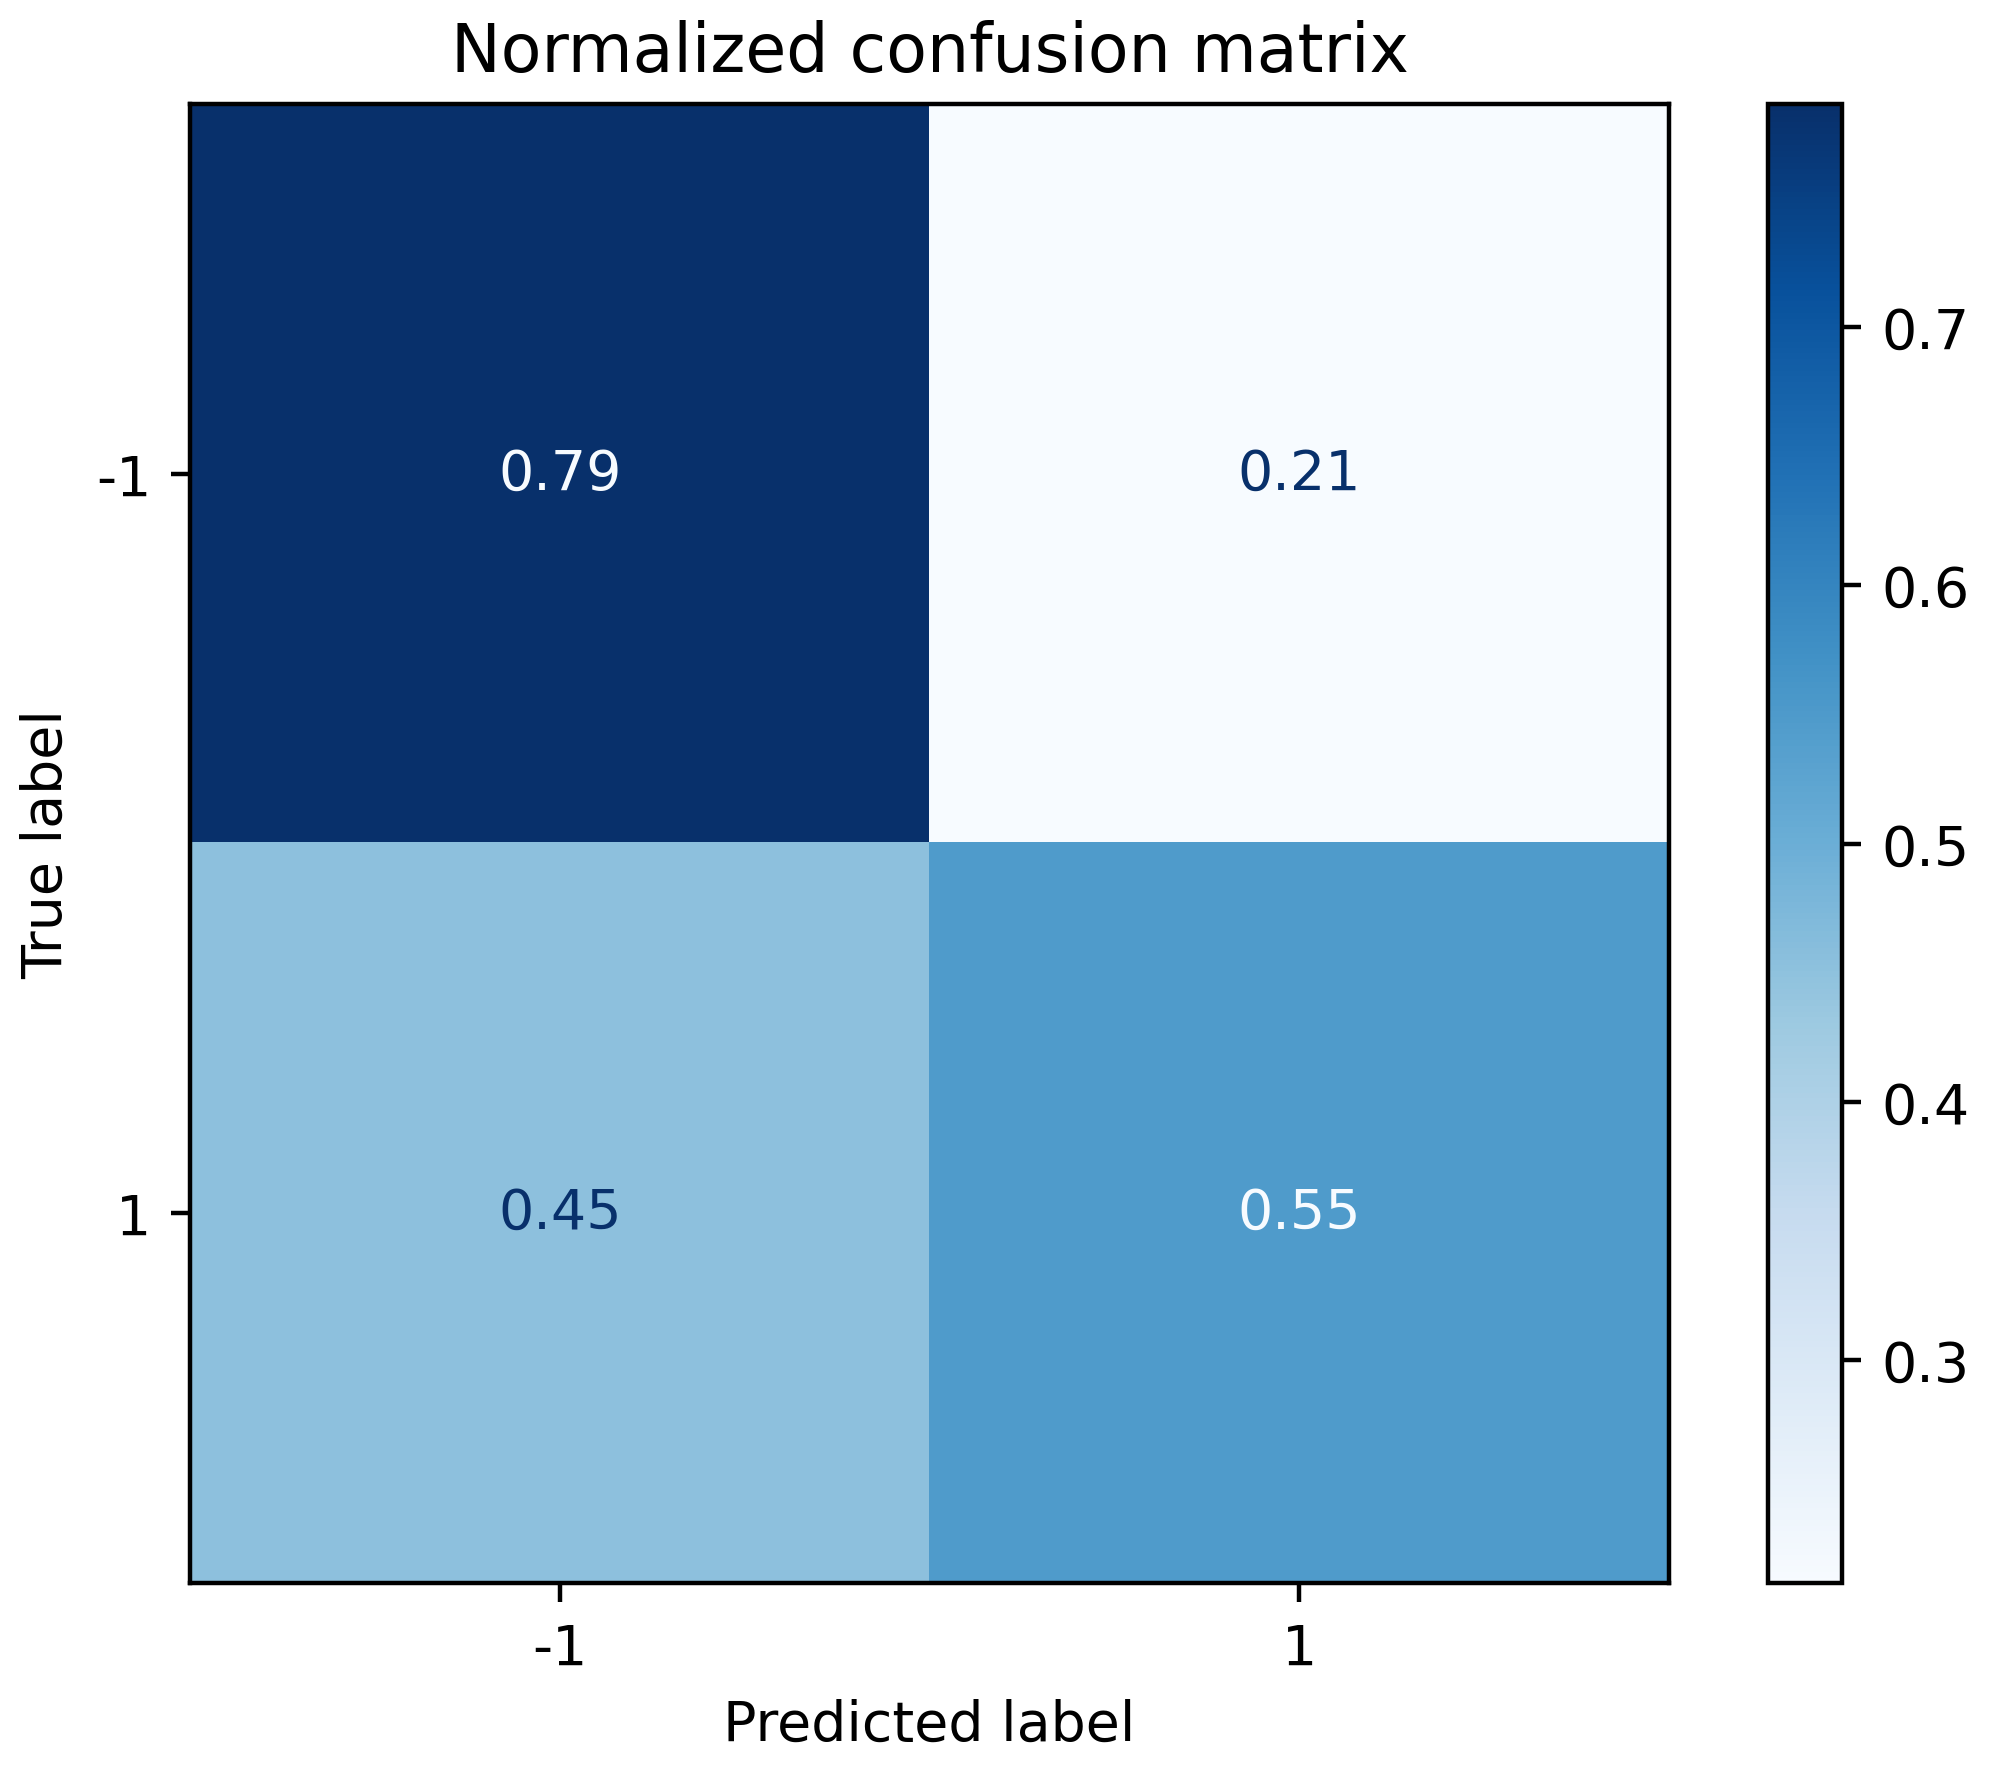
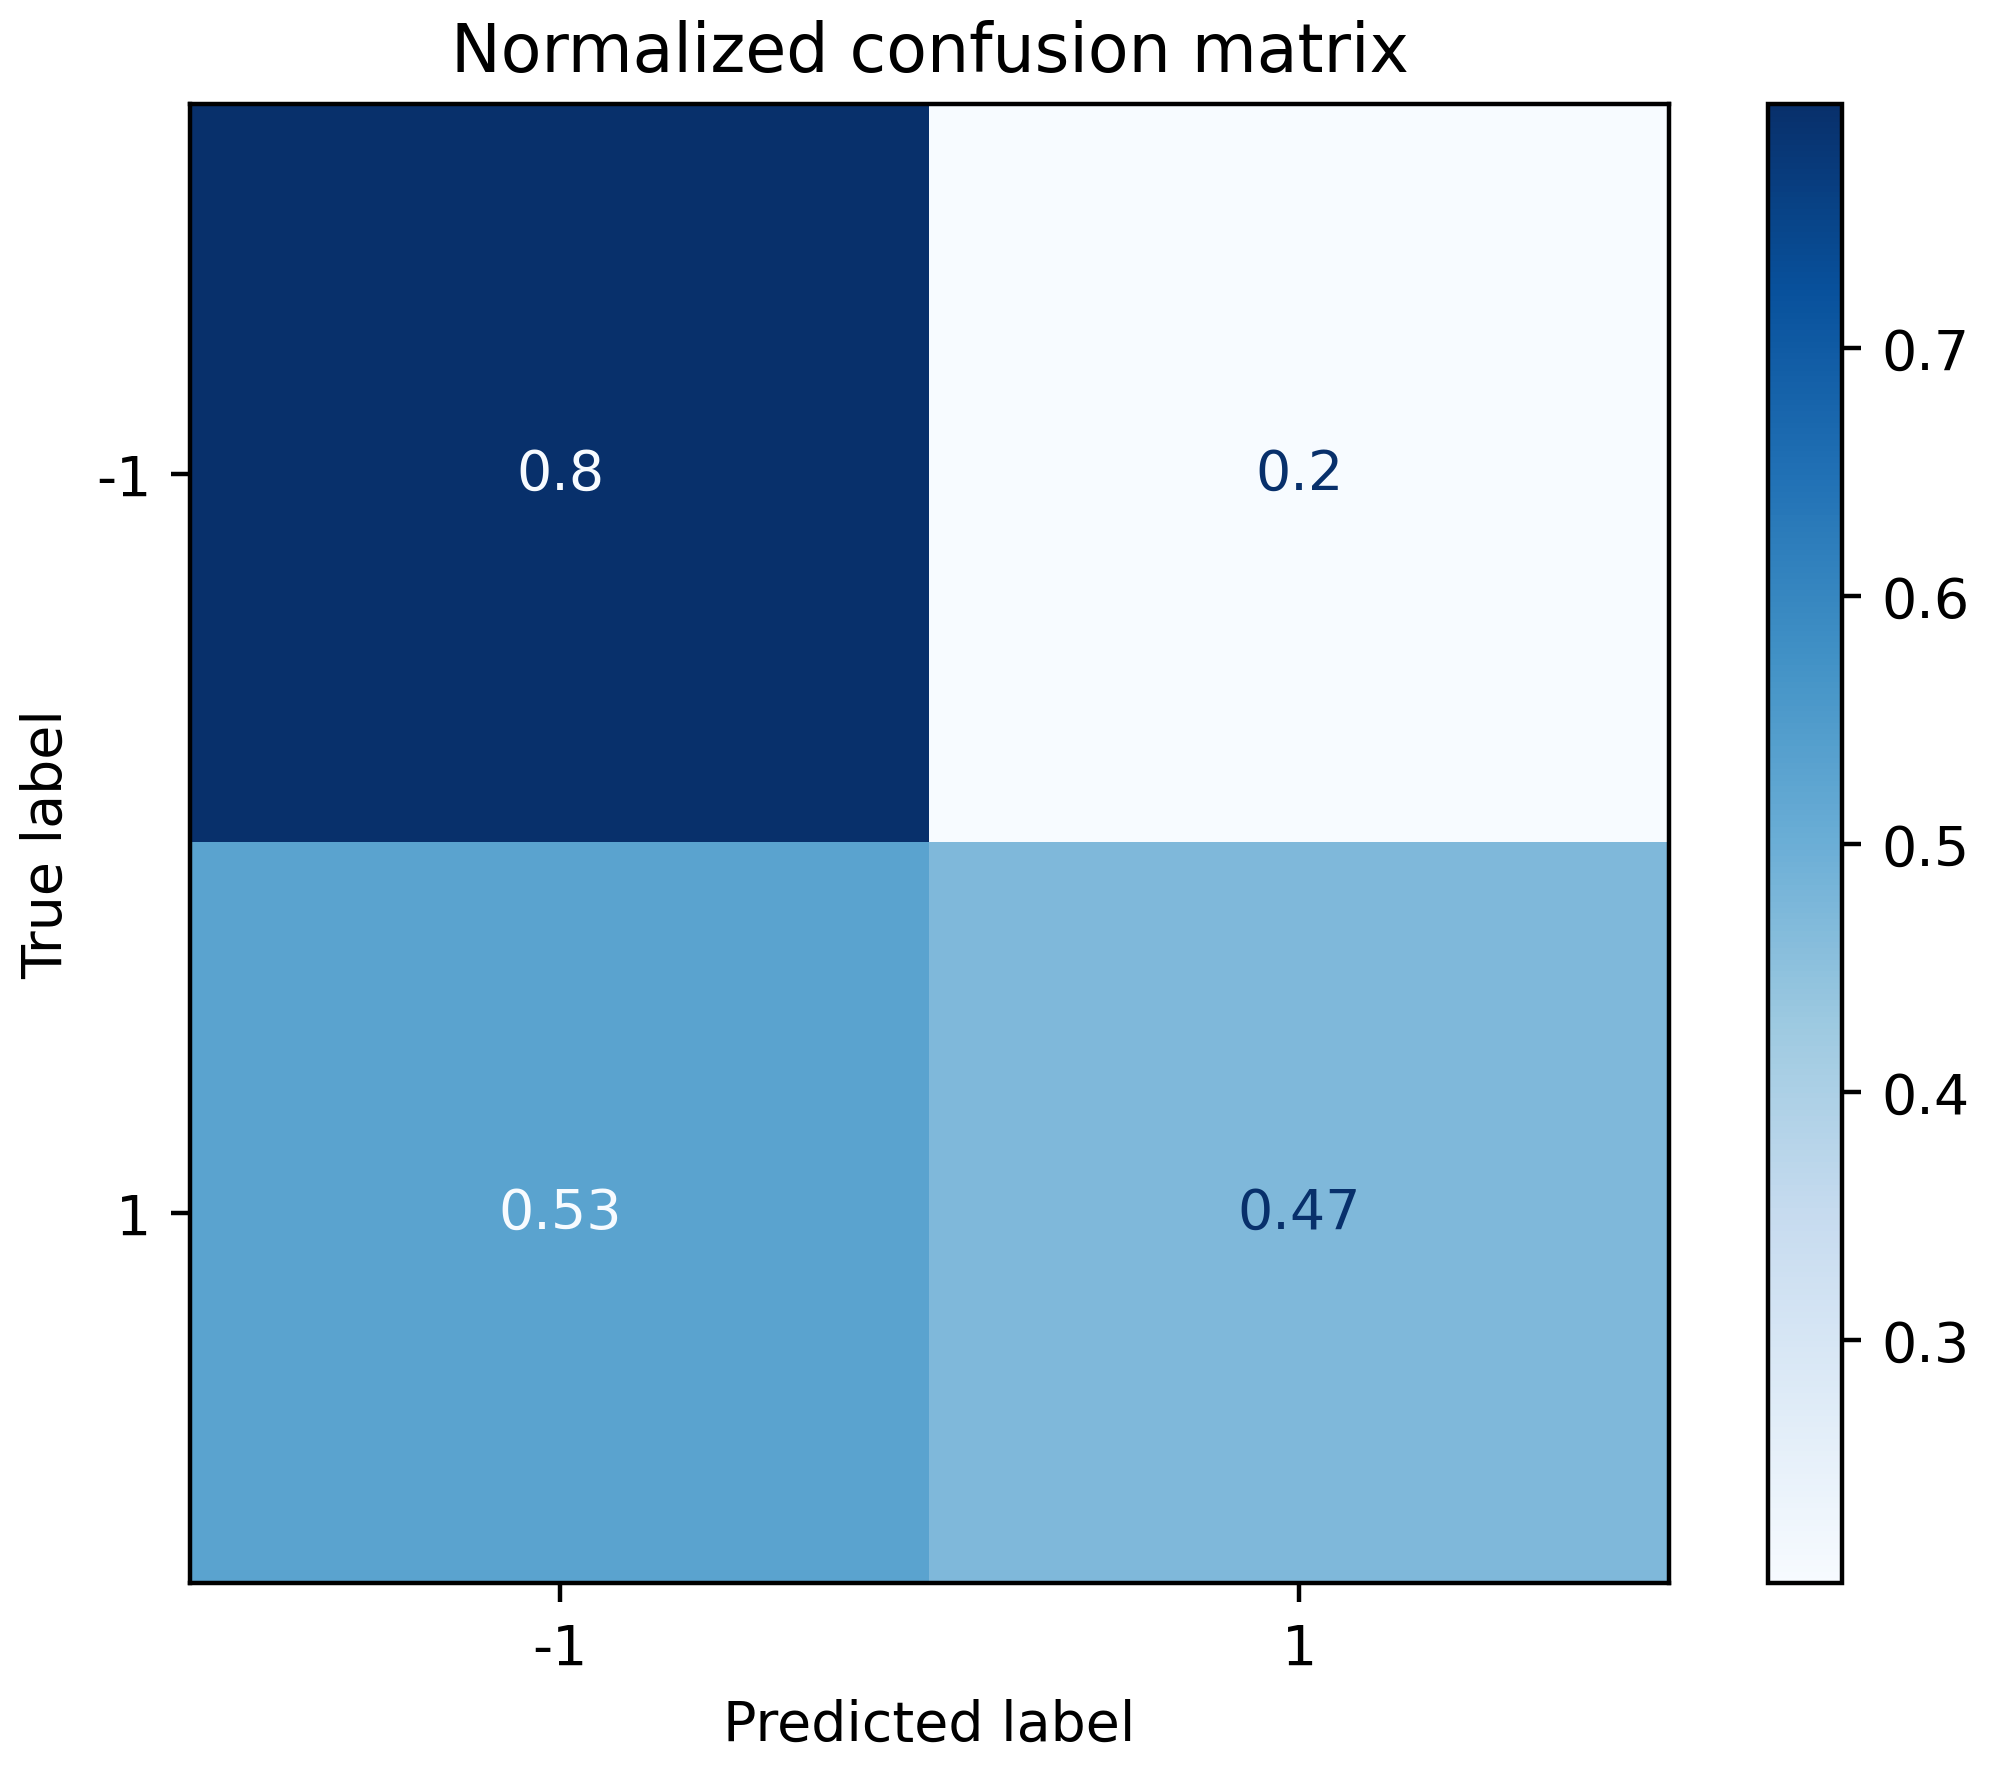
update

diff --git a/LightGBM.tex b/LightGBM.tex
@@ -4,9 +4,9 @@
     \begin{tabular}{|r|c|c|c|}
         \hline
                   & Precision & Recall & F1-score \\ \hline
-        -1        &     0.96667     &     0.78619   &    0.86714      \\ \hline
-        1         &     0.13278      &     0.54701   &   0.21369       \\ \hline
-        macro avg &      0.54972     &     0.66660   &    0.54041      \\ \hline
+        -1        &     0.96178     &     0.79795   &    0.87224      \\ \hline
+        1         &     0.12222      &     0.47009   &   0.19400       \\ \hline
+        macro avg &      0.54200     &     0.63402   &    0.53312      \\ \hline
     \end{tabular}
     \caption{LightGBM}
 \end{table}
